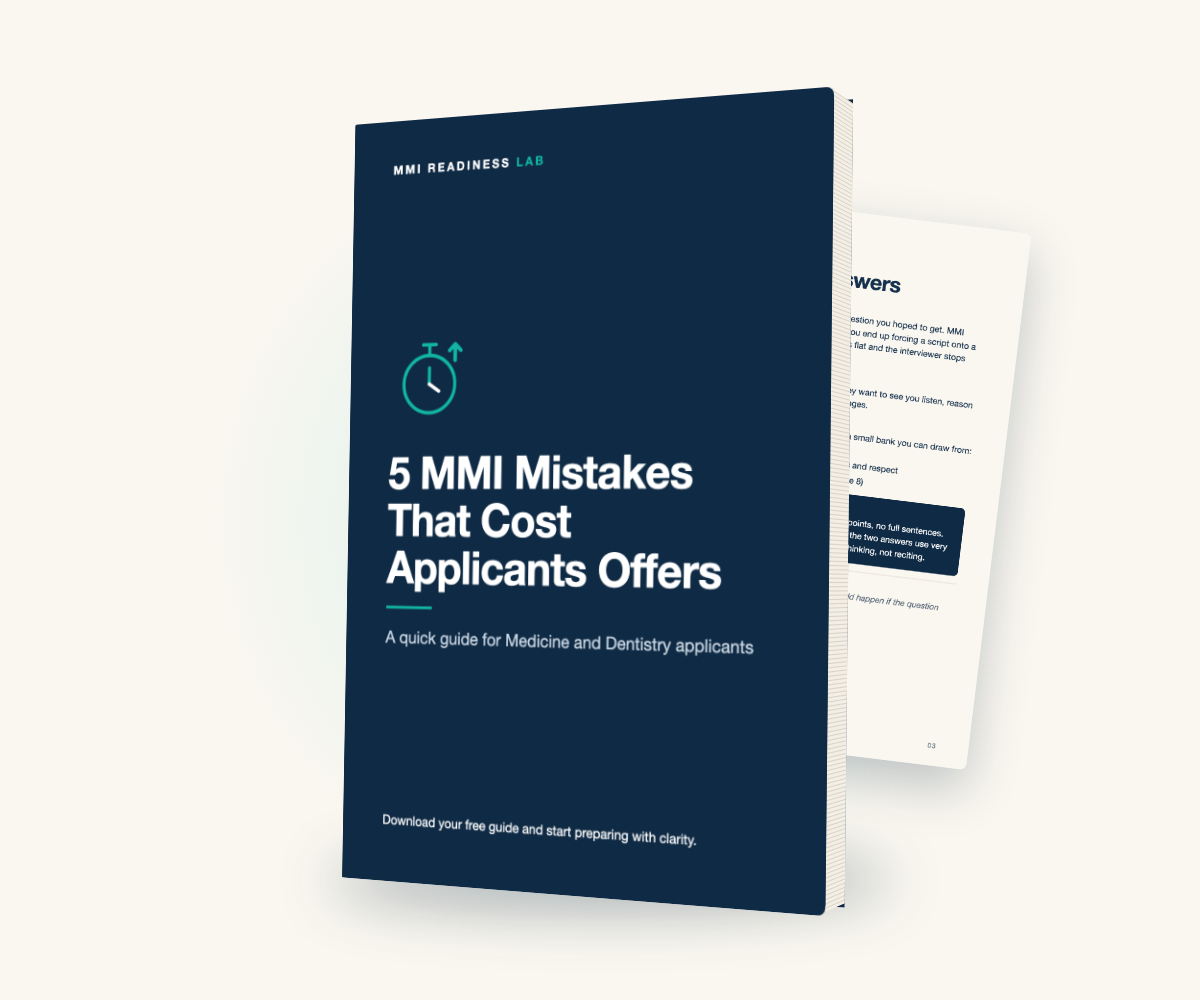
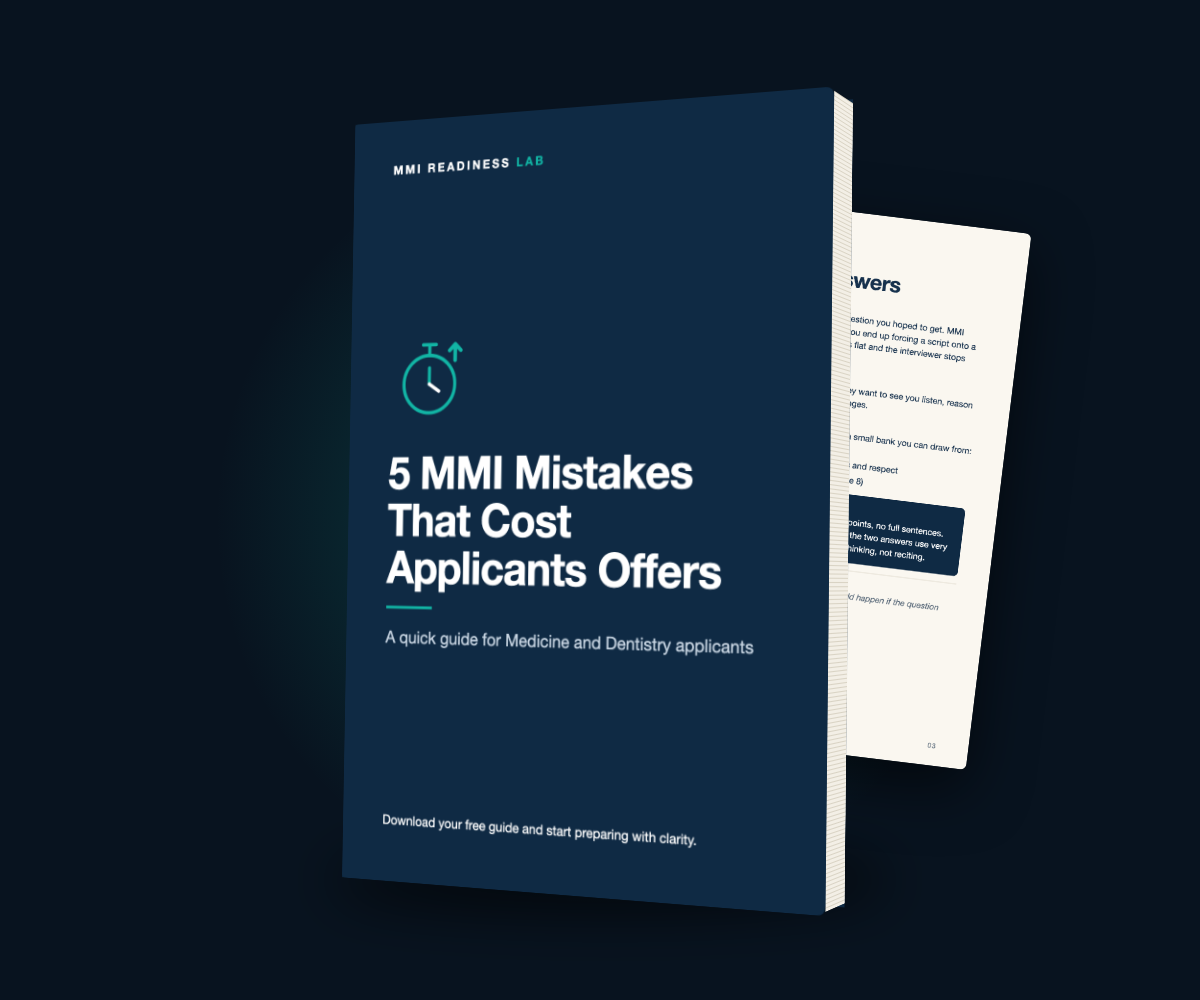
Premium dark theme

diff --git a/index.html b/index.html
@@ -4,31 +4,34 @@
 <title>Free MMI guide: 5 mistakes that cost applicants offers</title>
 <meta name="description" content="A free practice guide for Medicine and Dentistry applicants preparing for MMI interviews.">
 <style>
-:root{--navy:#0F2A44;--teal:#12B5A5;--cream:#FAF7F0;--ink:#16314d;--muted:#5b6b7b;--line:#e3ddd0}
+:root{--bg:#08131f;--navy:#0F2A44;--teal:#12B5A5;--ink:#c9d6e3;--white:#fff;--muted:#8ea2b6;--line:#1b3047}
 *{box-sizing:border-box;margin:0;padding:0}
-body{font-family:Inter,"Helvetica Neue",Arial,sans-serif;background:var(--cream);color:var(--ink);line-height:1.6}
-.wrap{max-width:760px;margin:0 auto;padding:0 20px}
-.top{padding:22px 0;font-weight:700;letter-spacing:.16em;font-size:13px;color:var(--navy)}.top span{color:var(--teal)}
-.hero{text-align:center;padding:30px 0 10px}
-.eyebrow{color:var(--teal);font-weight:700;letter-spacing:.14em;font-size:13px;text-transform:uppercase}
-h1{font-size:clamp(30px,6vw,48px);line-height:1.1;color:var(--navy);margin:14px 0;letter-spacing:-.02em}
-.sub{font-size:19px;color:var(--muted);max-width:600px;margin:0 auto 6px}
+body{font-family:Inter,"Helvetica Neue",Arial,sans-serif;background:radial-gradient(1200px 600px at 50% -100px,#12324a 0%,var(--bg) 70%) no-repeat,var(--bg);color:var(--ink);line-height:1.65}
+.wrap{max-width:780px;margin:0 auto;padding:0 22px}
+.top{padding:26px 0;font-weight:700;letter-spacing:.2em;font-size:13px;color:var(--white)}.top span{color:var(--teal)}
+.hero{text-align:center;padding:34px 0 10px}
+.eyebrow{display:inline-block;color:var(--teal);font-weight:700;letter-spacing:.16em;font-size:12px;text-transform:uppercase;border:1px solid #1d5a5a;background:rgba(18,181,165,.08);padding:7px 16px;border-radius:30px}
+h1{font-size:clamp(32px,6.4vw,54px);line-height:1.08;color:var(--white);margin:20px 0 16px;letter-spacing:-.025em}
+h1 em{font-style:normal;color:var(--teal)}
+.sub{font-size:19px;color:var(--muted);max-width:600px;margin:0 auto 10px}
 img{max-width:100%;height:auto;display:block;margin:0 auto}
-.btn{display:inline-block;background:var(--navy);color:#fff;font-weight:700;font-size:19px;text-decoration:none;padding:17px 34px;border-radius:40px;box-shadow:0 8px 22px rgba(15,42,68,.22)}
-.btn:hover{background:#0a1d31}
-.cta{text-align:center;padding:14px 0 30px}.cta small{display:block;margin-top:10px;color:var(--muted);font-size:14px}
-h2{font-size:28px;color:var(--navy);margin:34px 0 10px;line-height:1.2}
+.btn{display:inline-block;background:var(--teal);color:#06202a;font-weight:800;font-size:19px;text-decoration:none;padding:18px 38px;border-radius:50px;box-shadow:0 10px 34px rgba(18,181,165,.35);transition:transform .15s,box-shadow .15s}
+.btn:hover{transform:translateY(-2px);box-shadow:0 14px 40px rgba(18,181,165,.5)}
+.cta{text-align:center;padding:10px 0 36px}.cta small{display:block;margin-top:14px;color:var(--muted);font-size:14px}
+h2{font-size:28px;color:var(--white);margin:42px 0 12px;line-height:1.2;letter-spacing:-.01em}
 p{margin:0 0 14px;font-size:18px}
-ul{margin:0 0 18px 24px}li{font-size:18px;margin-bottom:6px}
-.box{background:#fff;border:1px solid var(--line);border-left:5px solid var(--teal);border-radius:10px;padding:18px 22px;margin:24px 0}
-footer{border-top:1px solid var(--line);margin-top:40px;padding:26px 0 44px;font-size:13px;color:var(--muted)}
-footer a{color:var(--muted)}
+strong{color:var(--white)}
+ul{list-style:none;margin:0 0 20px}li{font-size:18px;margin-bottom:10px;padding-left:30px;position:relative}
+li:before{content:"";position:absolute;left:4px;top:11px;width:9px;height:9px;border-radius:50%;background:var(--teal)}
+.card{background:linear-gradient(180deg,#0e2237,#0a1928);border:1px solid var(--line);border-radius:16px;padding:8px 26px 14px;margin:34px 0}
+footer{border-top:1px solid var(--line);margin-top:44px;padding:28px 0 48px;font-size:13px;color:#6f8399}
+footer a{color:#8ea2b6}
 </style></head><body>
 <div class="wrap">
 <div class="top">MMI READINESS <span>LAB</span></div>
 <section class="hero">
 <div class="eyebrow">Free guide for Medicine and Dentistry applicants</div>
-<h1>You know the answer.<br>But do you freeze when the timer starts?</h1>
+<h1>You know the answer.<br>But do you <em>freeze</em> when the timer starts?</h1>
 <p class="sub">You do not need more generic advice. You need a clear way to think under pressure.</p>
 <img src="lp_hero.png" alt="Cover of the free guide: 5 MMI Mistakes That Cost Applicants Offers" width="1200" height="1000">
 <div class="cta"><a class="btn" href="https://drive.google.com/file/d/1DpKeuYfN-Vje1a_WMI4iHb6p4fHZ2NNb/view?usp=drivesdk" target="_blank" rel="noopener">Download the free guide</a><small>Free PDF. No sign-up needed. Made to read on your phone.</small></div>
@@ -37,12 +40,12 @@ footer a{color:var(--muted)}
 <h2>You know what you want to say. Then the timer starts.</h2>
 <p>Your mind goes blank, or you talk for too long without making your point. Your structure disappears, and the buzzer sounds before you reach your best idea.</p>
 <p>That does not mean you are not suited to Medicine or Dentistry. It usually means you have not yet practised a method for thinking out loud, in a short time, with someone watching.</p>
-<h2>Why most MMI advice does not help</h2>
+<div class="card"><h2 style="margin-top:20px">Why most MMI advice does not help</h2>
 <p>"Be yourself." "Stay calm." "Show empathy." It is true, but it does not tell you what to do in the first 20 seconds of a station. So strong applicants still:</p>
 <ul><li>Memorise answers that sound robotic when the question changes</li><li>Ramble before reaching the central issue</li><li>Give generic answers that any applicant could give</li><li>Forget empathy in role-play stations</li><li>Skip timed practice until interview day</li></ul>
-<p><strong>These are skills, not personality traits, and skills can be practised.</strong></p>
-<h2>What you will learn in the free guide</h2>
-<ul><li>The 5 most common MMI mistakes</li><li>How to spot which ones you may be making</li><li>One simple action for each, to start today</li><li>A 5-step framework you can use in any station</li></ul>
+<p><strong>These are skills, not personality traits, and skills can be practised.</strong></p></div>
+<div class="card"><h2 style="margin-top:20px">What you will learn in the free guide</h2>
+<ul><li>The 5 most common MMI mistakes</li><li>How to spot which ones you may be making</li><li>One simple action for each, to start today</li><li>A 5-step framework you can use in any station</li></ul></div>
 <div class="cta"><a class="btn" href="https://drive.google.com/file/d/1DpKeuYfN-Vje1a_WMI4iHb6p4fHZ2NNb/view?usp=drivesdk" target="_blank" rel="noopener">Get the free guide now</a></div>
 <footer>
 <p style="font-size:13px">MMI Readiness Lab is not affiliated with any university or admissions body. This guide is for educational preparation only. It does not guarantee an interview outcome or an admission offer, and it is not medical, legal or professional advice. Interview formats vary by university, so always check the official information.</p>
